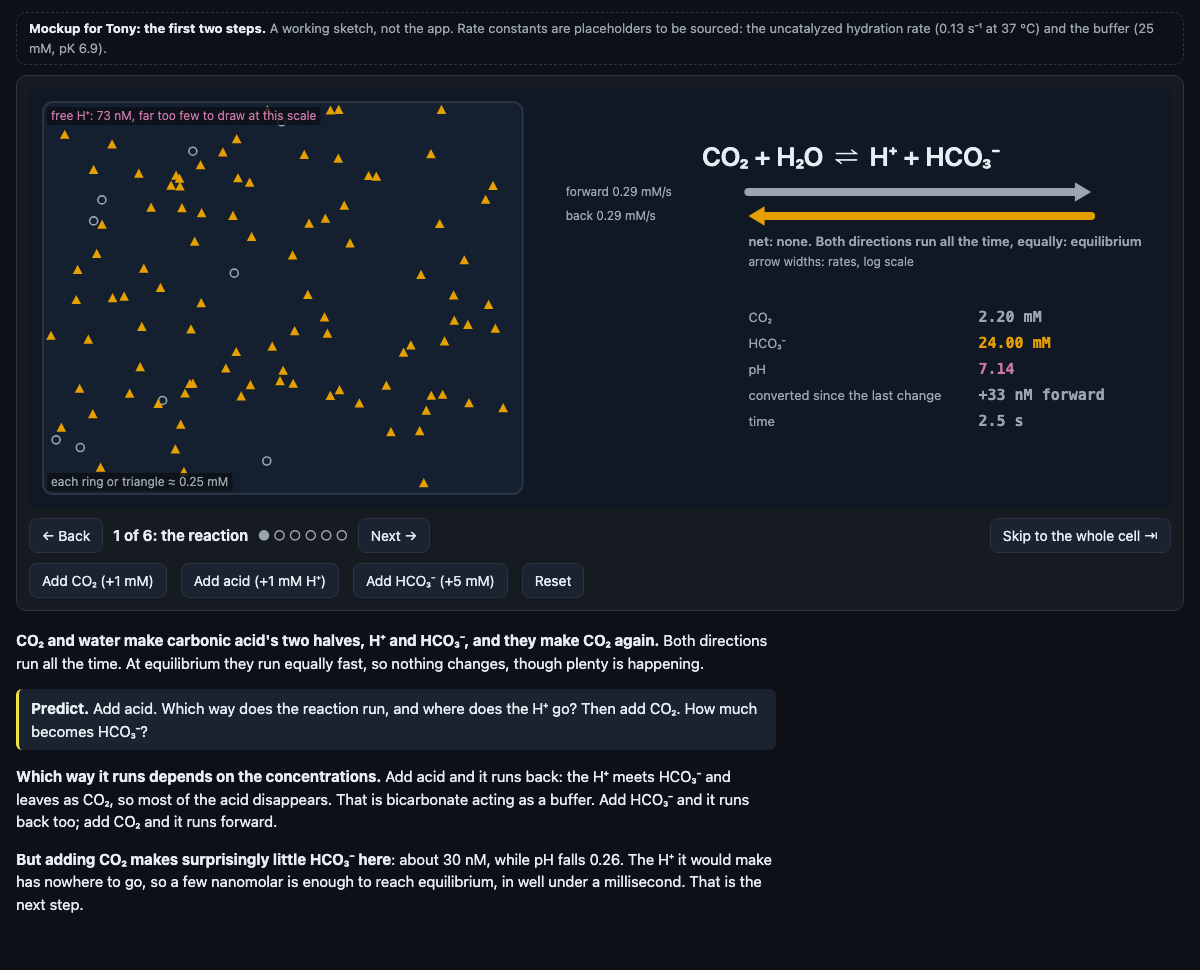
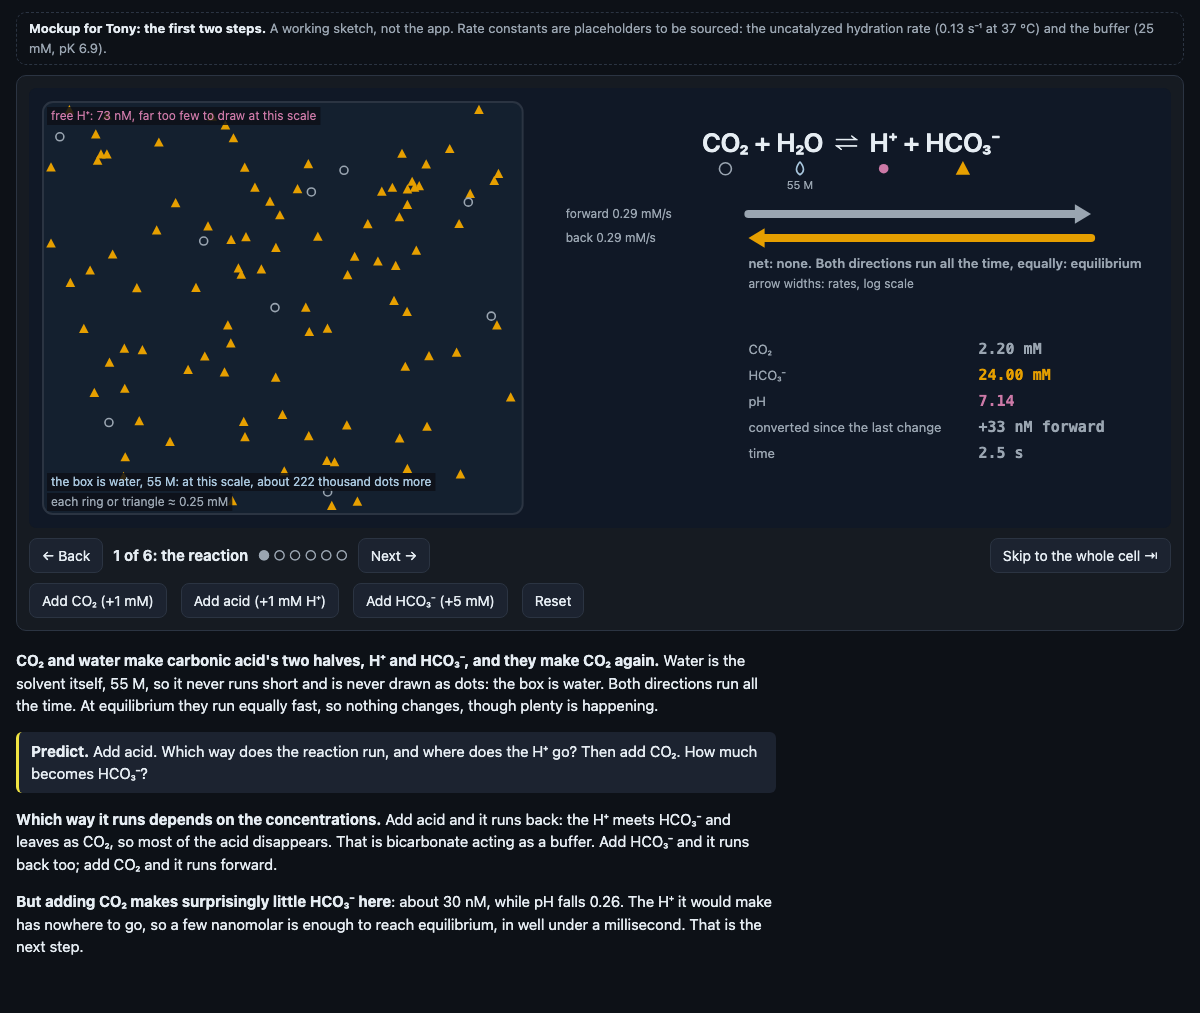
Step-through mockup: each term's symbol under the equation; water shown as the solvent
Tony: "maybe put the symbols below the equation. do we show water here?"

diff --git a/docs/feedback/drafts/protons-steps/steps.html b/docs/feedback/drafts/protons-steps/steps.html
@@ -23,7 +23,7 @@ select{font:inherit;font-size:14px;color:var(--text);background:var(--panel2);bo
 </style></head><body><main>
 <div class="banner"><b>Mockup for Tony: the first two steps.</b> A working sketch, not the app. Rate constants are placeholders to be sourced: the uncatalyzed hydration rate (0.13 s⁻¹ at 37 °C) and the buffer (25 mM, pK 6.9).</div>
 <div class="panel">
-  <canvas id="c" height="420"></canvas>
+  <canvas id="c" height="440"></canvas>
   <div class="stepbar">
     <button id="back">← Back</button>
     <span class="name" id="stepname"></span>
@@ -67,7 +67,7 @@ const cv = document.getElementById("c"), ctx = cv.getContext("2d");
 const C = { co2: "#9aa5b1", hco3: "#e69f00", h: "#cc79a7", a: "#8a7f6a", text: "#e6edf3", muted: "#9aa5b1", acc: "#f0e442", line: "#2b3442" };
 const PER_DOT = 0.25; // mM per dot, both CO₂ and HCO₃⁻: one stated scale
 let dots = [], conv = 0, flashes = [], trace = [];
-function fit() { const w = cv.clientWidth, d = Math.min(2, devicePixelRatio || 1); cv.width = w * d; cv.height = 420 * d; ctx.setTransform(d, 0, 0, d, 0, 0); return w; }
+function fit() { const w = cv.clientWidth, d = Math.min(2, devicePixelRatio || 1); cv.width = w * d; cv.height = 440 * d; ctx.setTransform(d, 0, 0, d, 0, 0); return w; }
 function syncDots(box) {
   const want = { co2: Math.round(s.co2 / PER_DOT), hco3: Math.round(s.hco3 / PER_DOT), buf: buffered ? Math.round(BT / 1) : 0 };
   for (const k of ["co2", "hco3", "buf"]) {
@@ -94,9 +94,9 @@ function logW(r) { return 1 + 10 * Math.max(0, (Math.log10(Math.max(r, 1e-7)) + 
 function fmtR(r) { return r >= 0.01 ? r.toFixed(2) : r >= 1e-4 ? r.toExponential(1).replace("e-", "×10⁻").replace(/⁻(\d)/, (m, d) => "⁻" + "⁰¹²³⁴⁵⁶⁷⁸⁹"[d]) : r.toExponential(0); }
 function draw(dt) {
   const w = fit(), narrow = w < 640;
-  ctx.fillStyle = "#101826"; ctx.fillRect(0, 0, w, 420);
+  ctx.fillStyle = "#101826"; ctx.fillRect(0, 0, w, 440);
   // the box of solution, on the left (top on a phone)
-  const box = narrow ? { x: 10, y: 10, w: w - 20, h: 180 } : { x: 14, y: 14, w: w * 0.42, h: 392 };
+  const box = narrow ? { x: 10, y: 10, w: w - 20, h: 170 } : { x: 14, y: 14, w: w * 0.42, h: 412 };
   ctx.fillStyle = "#14202f"; ctx.strokeStyle = C.line; ctx.lineWidth = 2; ctx.beginPath(); ctx.roundRect(box.x, box.y, box.w, box.h, 10); ctx.fill(); ctx.stroke();
   syncDots(box);
   for (const d of dots) {
@@ -110,28 +110,43 @@ function draw(dt) {
   flashes = flashes.filter((f) => f.life > 0);
   const tag = (txt, x, y, col = C.muted, font = "12px system-ui", boxed = false) => { ctx.font = font; ctx.textAlign = "left"; ctx.textBaseline = "middle"; if (boxed) { const tw = ctx.measureText(txt).width; ctx.fillStyle = "rgba(13,17,23,0.85)"; ctx.fillRect(x - 4, y - 9, tw + 8, 18); } ctx.fillStyle = col; ctx.fillText(txt, x, y); };
   tag(`each ring or triangle ≈ ${PER_DOT} mM${buffered ? (narrow ? "; blob ≈ 1 mM buffer" : "; each blob ≈ 1 mM of buffer, with an H⁺ when it carries one") : ""}`, box.x + 8, box.y + box.h - 12, C.muted, "12px system-ui", true);
+  if (!narrow) tag(`the box is water, 55 M: at this scale, about ${Math.round(55500 / PER_DOT / 1000)} thousand dots more`, box.x + 8, box.y + box.h - 32, "#a9c7de", "12px system-ui", true);
   tag(narrow ? `free H⁺ ${(freeH(s.acid) * 1e6).toFixed(0)} nM: too few to draw` : `free H⁺: ${(freeH(s.acid) * 1e6).toFixed(0)} nM, far too few to draw at this scale`, box.x + 8, box.y + 14, C.h, "12px system-ui", true);
   // the equation, with both directions drawn and the net beneath
-  const ex = narrow ? 14 : w * 0.47, ey = narrow ? 228 : 70, ew = narrow ? w - 28 : w * 0.5;
-  ctx.font = `600 ${narrow ? 19 : 26}px system-ui`; ctx.textAlign = "center"; ctx.fillStyle = C.text;
-  ctx.fillText("CO₂ + H₂O  ⇌  H⁺ + HCO₃⁻", ex + ew / 2, ey);
+  const ex = narrow ? 14 : w * 0.47, ey = narrow ? 222 : 56, ew = narrow ? w - 28 : w * 0.5;
+  // the equation term by term, each term's symbol beneath it (water too: the solvent, never drawn as dots)
+  const fs = narrow ? 19 : 26, terms = ["CO₂", " + ", "H₂O", "  ⇌  ", "H⁺", " + ", "HCO₃⁻"], sym = ["co2", null, "water", null, "h", null, "hco3"];
+  ctx.font = `600 ${fs}px system-ui`; ctx.textAlign = "left"; ctx.textBaseline = "middle"; ctx.fillStyle = C.text;
+  const widths = terms.map((t) => ctx.measureText(t).width), total = widths.reduce((a, b) => a + b, 0);
+  let tx = ex + ew / 2 - total / 2;
+  terms.forEach((t, i) => {
+    ctx.font = `600 ${fs}px system-ui`; ctx.fillStyle = C.text; ctx.textAlign = "left"; ctx.fillText(t, tx, ey);
+    const cx = tx + widths[i] / 2, gy = ey + fs * 0.95;
+    if (sym[i] === "water") {
+      // a drop of water, and why it is never short
+      ctx.strokeStyle = "#a9c7de"; ctx.lineWidth = 1.6; ctx.beginPath();
+      ctx.moveTo(cx, gy - 7); ctx.quadraticCurveTo(cx + 7, gy + 2, cx, gy + 6); ctx.quadraticCurveTo(cx - 7, gy + 2, cx, gy - 7); ctx.stroke();
+      ctx.font = "11px system-ui"; ctx.fillStyle = C.muted; ctx.textAlign = "center"; ctx.fillText("55 M", cx, gy + 17);
+    } else if (sym[i]) { glyph(sym[i], cx, gy, 6); }
+    tx += widths[i];
+  });
   const r = rates(), a0 = narrow ? ex + 4 : ex + ew * 0.32, a1 = narrow ? ex + ew - 4 : ex + ew * 0.92;
-  const fy = narrow ? ey + 40 : ey + 34, by = narrow ? ey + 78 : ey + 58;
+  const fy = narrow ? ey + 74 : ey + 70, by = narrow ? ey + 112 : ey + 94;
   arrowBar(a0, a1, fy, logW(r.f), C.co2, +1); tag(`forward ${fmtR(r.f)} mM/s`, narrow ? ex + 4 : ex, narrow ? fy - 16 : fy);
   arrowBar(a0, a1, by, logW(r.b), C.hco3, -1); tag(`back ${fmtR(r.b)} mM/s`, narrow ? ex + 4 : ex, narrow ? by - 16 : by);
   const net = r.f - r.b, eq = Math.abs(net) < 1e-3 * Math.max(r.f, 1e-9);
-  const ny = narrow ? ey + 104 : ey + 84;
+  const ny = narrow ? ey + 136 : ey + 120;
   tag(eq ? (narrow ? "net: none (equilibrium)" : "net: none. Both directions run all the time, equally: equilibrium") : `net: ${net > 0 ? "forward" : "back"}, ${fmtR(Math.abs(net))} mM/s`, narrow ? ex + 4 : ex + ew * 0.32, ny, eq ? C.muted : C.acc, "600 13px system-ui");
-  if (!narrow) tag(step === 0 ? "arrow widths: rates, log scale" : "arrow widths: rates, log scale; carbonic anhydrase multiplies both alike", ex + ew * 0.32, ey + 104);
+  if (!narrow) tag(step === 0 ? "arrow widths: rates, log scale" : "arrow widths: rates, log scale; carbonic anhydrase multiplies both alike", ex + ew * 0.32, ey + 140);
   // the readouts
-  const pH = -Math.log10(freeH(s.acid) / 1e3), ry = narrow ? ey + 132 : 230;
+  const pH = -Math.log10(freeH(s.acid) / 1e3), ry = narrow ? ey + 162 : 262;
   const rows = [["CO₂", s.co2.toFixed(2) + " mM", C.co2], ["HCO₃⁻", s.hco3.toFixed(2) + " mM", C.hco3], ["pH", pH.toFixed(2), C.h], ["converted since the last change", (conv >= 0 ? "+" : "") + (Math.abs(conv) < 0.001 ? (conv * 1e6).toFixed(0) + " nM" : conv.toFixed(3) + " mM") + (conv >= 0 ? " forward" : " back"), C.muted], ["time", t.toFixed(1) + " s", C.muted]];
   if (!narrow) rows.forEach(([k, v, col], i) => { tag(k, ex + ew * 0.32, ry + i * 26, C.muted, "13px system-ui"); tag(v, ex + ew * 0.32 + 230, ry + i * 26, col, "600 15px ui-monospace, Menlo, monospace"); });
   else tag(`CO₂ ${s.co2.toFixed(2)} · HCO₃⁻ ${s.hco3.toFixed(1)} mM · pH ${pH.toFixed(2)} · ${t.toFixed(1)} s`, 14, ry, C.text, "13px system-ui");
 }
 // ---- the steps ----
 const STEPS = [
-  { name: "1 of 6: the reaction", buffer: false, text: `<p><b>CO₂ and water make carbonic acid's two halves, H⁺ and HCO₃⁻, and they make CO₂ again.</b> Both directions run all the time. At equilibrium they run equally fast, so nothing changes, though plenty is happening.</p>
+  { name: "1 of 6: the reaction", buffer: false, text: `<p><b>CO₂ and water make carbonic acid's two halves, H⁺ and HCO₃⁻, and they make CO₂ again.</b> Water is the solvent itself, 55 M, so it never runs short and is never drawn as dots: the box is water. Both directions run all the time. At equilibrium they run equally fast, so nothing changes, though plenty is happening.</p>
 <div class="predict"><b>Predict.</b> Add acid. Which way does the reaction run, and where does the H⁺ go? Then add CO₂. How much becomes HCO₃⁻?</div>
 <p><b>Which way it runs depends on the concentrations.</b> Add acid and it runs back: the H⁺ meets HCO₃⁻ and leaves as CO₂, so most of the acid disappears. That is bicarbonate acting as a buffer. Add HCO₃⁻ and it runs back too; add CO₂ and it runs forward.</p>
 <p><b>But adding CO₂ makes surprisingly little HCO₃⁻ here</b>: about 30 nM, while pH falls 0.26. The H⁺ it would make has nowhere to go, so a few nanomolar is enough to reach equilibrium, in well under a millisecond. That is the next step.</p>` },
